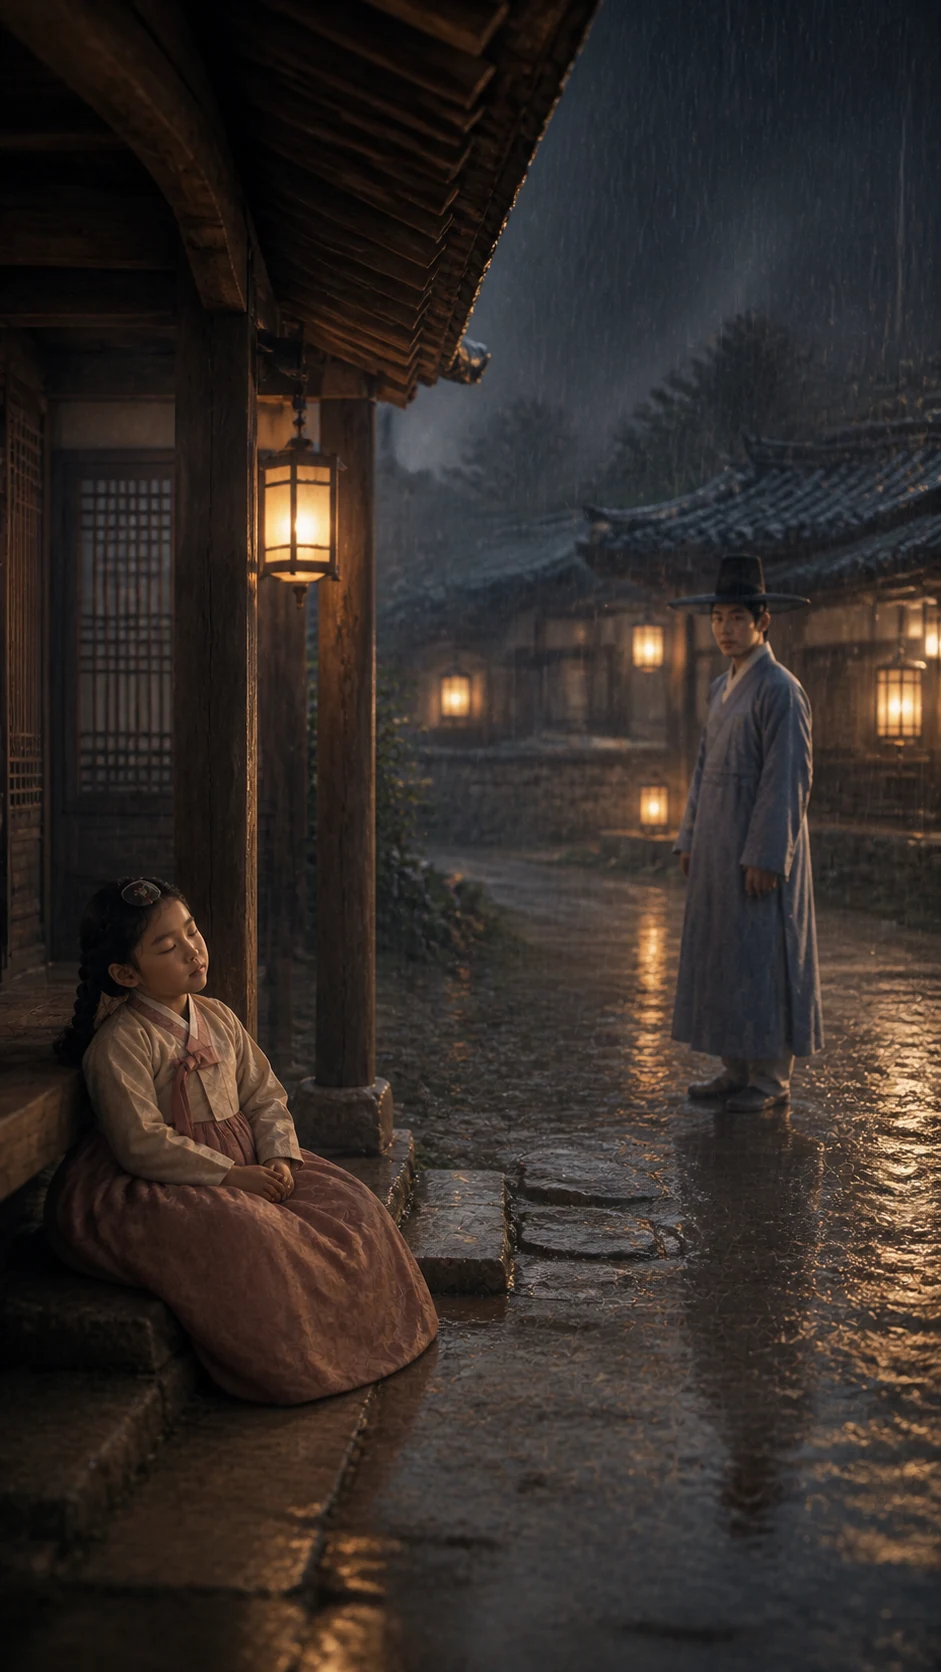
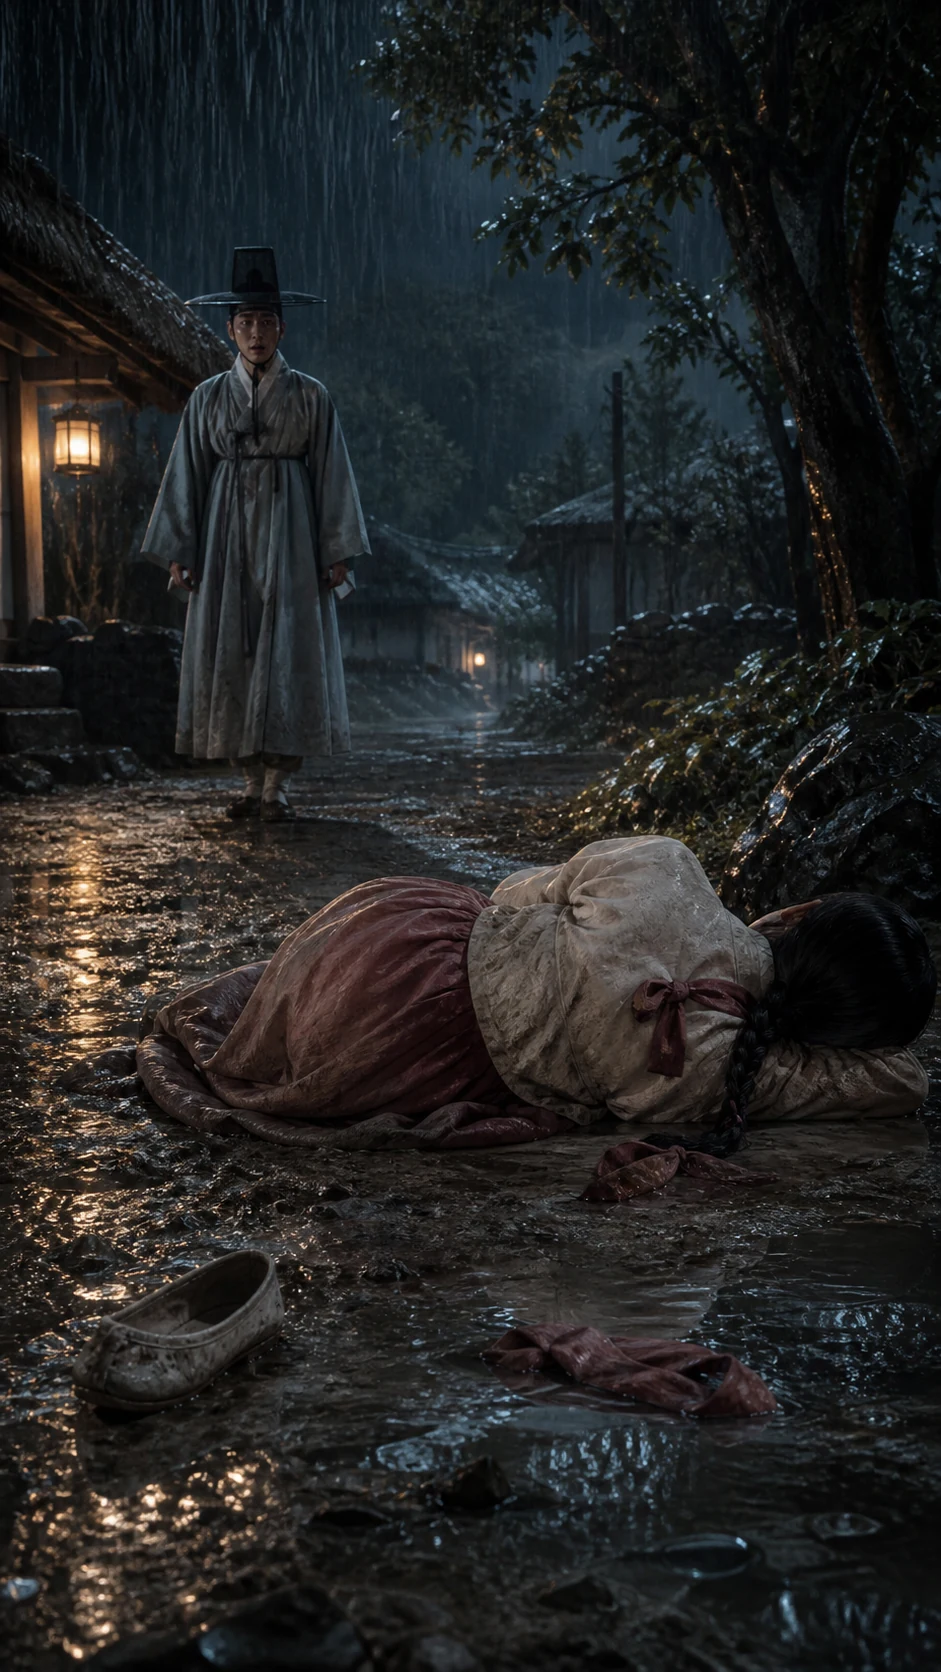
v0.61.30-debug make S2 roadside collapse clear

diff --git a/src/app.js b/src/app.js
@@ -6,7 +6,7 @@ const panelTitle = document.querySelector('#panelTitle');
 const panelBody = document.querySelector('#panelBody');
 const originalPrologueScenes = [
   { image:'../assets/cinematics/prologue/p1-rainy-street.webp', chapter:'서장 · 비 오는 길', alt:'비 오는 마을길', rain:true, text:'저물녘부터 내리던 비가 좀처럼 그치지 않았다.' },
-  { image:'../assets/cinematics/prologue/p2-child-collapsed.webp', chapter:'서장 · 발견', alt:'비를 피하던 아이', rain:true, text:'길 한켠에서 지친 작은 아이를 발견한 선비는 걸음을 멈췄다.' },
+  { image:'../assets/cinematics/prologue/p2-child-collapsed.webp', chapter:'서장 · 발견', alt:'길가에 쓰러진 아이', rain:true, text:'길 한켠, 빗물 고인 길가에 작은 아이가 쓰러져 있었다. 선비는 걸음을 멈췄다.' },
   { image:'../assets/cinematics/prologue/p3-carry-home.webp', chapter:'서장 · 데려오다', alt:'아이를 데려오는 선비', rain:true, text:'선비는 아이를 품에 안고 제 집으로 걸음을 서둘렀다.' },
   { image:'../assets/cinematics/prologue/p4-fever-care.webp', chapter:'서장 · 밤새 돌봄', alt:'아이를 돌보는 한옥 방', rain:false, text:'선비는 약을 달이며 밤이 깊도록 곁을 떠나지 않았다.' },
   { image:'../assets/cinematics/prologue/p4b-fever-check.webp', chapter:'서장 · 남은 열기', alt:'아이의 열을 확인하는 선비', rain:false, text:'선비는 조심스럽게 아이의 이마에 손등을 대었다.' },

diff --git a/src/index.html b/src/index.html
@@ -4,7 +4,7 @@
   <meta charset="utf-8">
   <meta name="viewport" content="width=device-width,initial-scale=1,viewport-fit=cover">
   <title>선화공주 만들기 — 자산 로딩 테스트</title>
-  <link rel="stylesheet" href="style.css?v=0.61.29-debug">
+  <link rel="stylesheet" href="style.css?v=0.61.30-debug">
   <link rel="stylesheet" href="schedule.css?v=0.61.14-debug">
   <link rel="stylesheet" href="birthday.css">
   <link rel="stylesheet" href="prologue.css">
@@ -92,6 +92,6 @@
       <div id="panelBody"></div>
     </section>
   </main>
-  <script src="story-data.js?v=0.61.29-debug"></script><script src="app.js?v=0.61.29-debug"></script>
+  <script src="story-data.js?v=0.61.30-debug"></script><script src="app.js?v=0.61.30-debug"></script>
 </body>
 </html>

diff --git a/src/story-data.js b/src/story-data.js
@@ -14,8 +14,8 @@ window.SEONHWA_STORY = {
     {
       id: 'S2', chapter: '서장 · 발견',
       image: '../assets/cinematics/prologue/p2-child-collapsed.webp',
-      alt: '처마 아래 지친 아이를 발견한 젊은 선비', rain: true,
-      text: '길 한켠, 비를 피할 새도 없이 지친 작은 아이가 웅크려 있었다. 선비는 걸음을 멈췄다.',
+      alt: '비 내리는 길가에 쓰러진 아이를 발견한 젊은 선비', rain: true,
+      text: '길 한켠, 빗물 고인 길가에 작은 아이가 쓰러져 있었다. 선비는 걸음을 멈췄다.',
       dialogue: '선비 “...이 빗속에, 아이가?”'
     },
     {

diff --git a/README.md b/README.md
@@ -236,3 +236,8 @@ python tools/verify_assets.py
 - 국립민속박물관 한국민속대백과사전 「한국의식주생활사전: 의생활」
 
 각 이미지의 구체적 참고 URL과 판단은 `assets/reference/sources.md`에 기록합니다. 생성 이미지는 공공기관 원본을 복제한 것이 아니라, 검증 자료를 고증 기준으로 삼은 독자 제작물입니다.
+## v0.61.30-debug — S2 쓰러진 아이 구도 수정
+
+- S2의 아이를 처마 아래 앉은 자세에서 비 내리는 길가에 옆으로 쓰러진 자세로 교체했습니다.
+- 젊은 선비와 아이의 얼굴·복식 및 9:16 시네마틱 구도는 유지했습니다.
+- S2 자막과 대체 설명을 새 장면에 맞게 수정했습니다.
